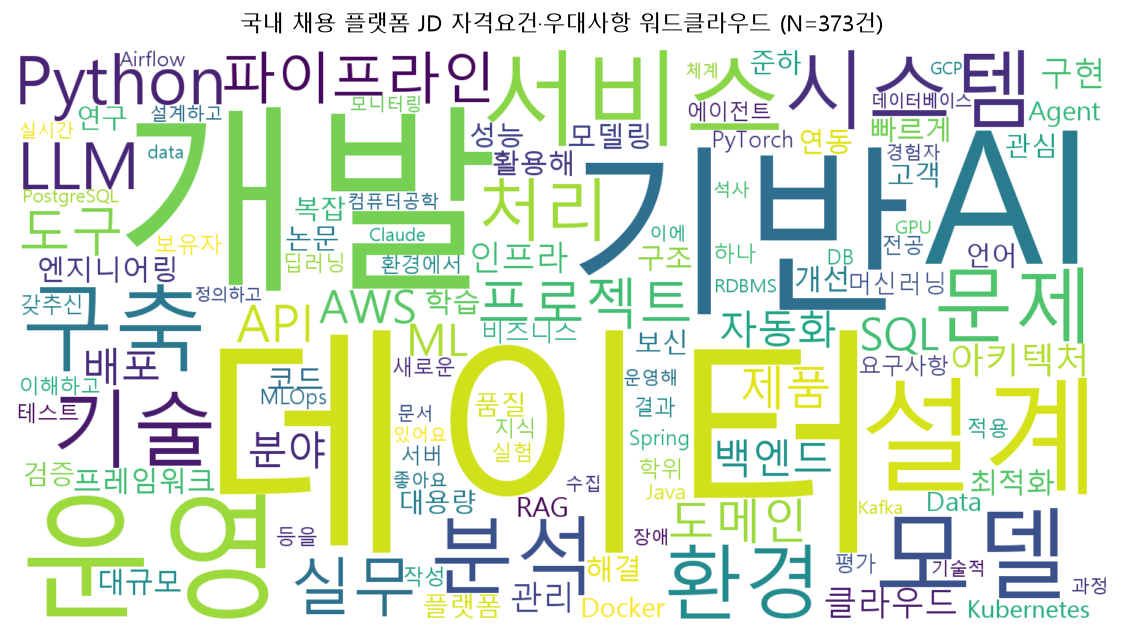
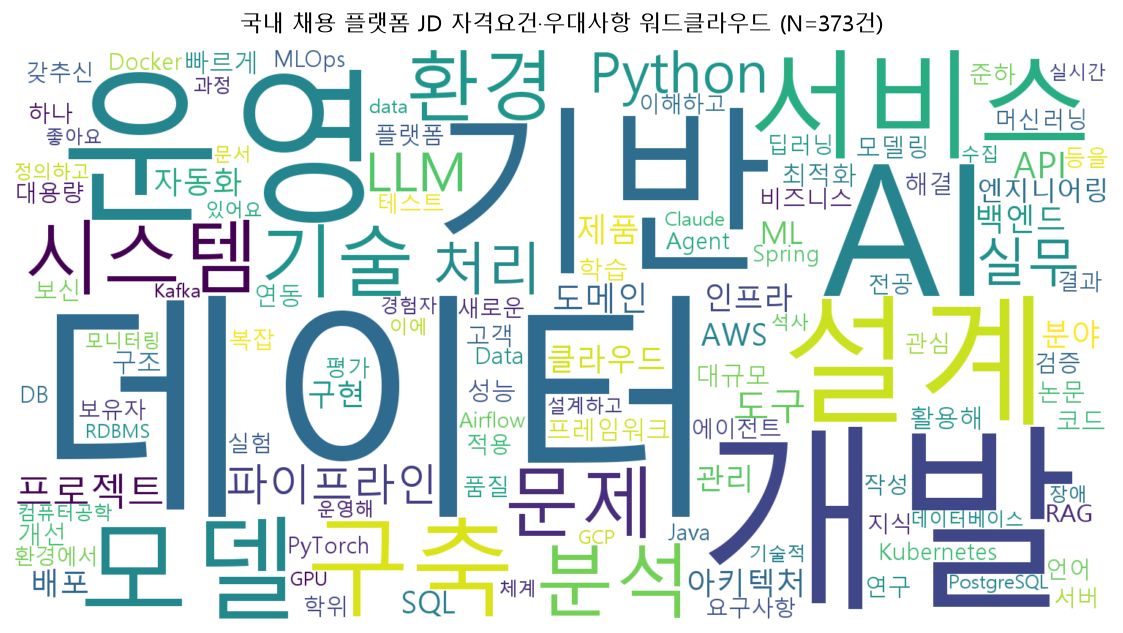
국내 직군별 공고 수 추가 — 직군 그래프가 해외 기준이던 공백을 메움
기존 국내 JD 373건은 AI/데이터·서버/백엔드 두 태그만 받은 것이었습니다.
프론트엔드·앱·게임이 없던 것은 데이터 부재가 아니라 수집 범위의 문제였고,
플랫폼 직군 태그 372개 중 개발 직군 20개를 다시 받았습니다.

결과 (현재 게시분, 고유 공고 2,529건)
  ML/AI 642 / 백엔드 606 / 데이터 508 / 인프라 403 / 프론트엔드 376
  앱(모바일) 114 / 게임 클라이언트 16 / 게임 서버 6

해외와 대조 (백엔드 대비 비, 단위가 달라 절대값은 비교하지 않음)
  프론트엔드  국내 0.62x  해외 0.50x  — 방향 일치
  앱          국내 0.19x  해외 0.28x
  인프라      국내 0.67x  해외 0.31x  — 해외에서 인프라가 크게 빠진 것과 대비
  ML/AI       국내 1.06x  해외 0.48x  — 국내는 ML/AI가 백엔드를 넘어섬

공고 수를 페이지 표기가 아니라 API 열거로 센 이유
  목록 페이지에 직군별 공고 수가 박혀 있어 요청 한 번이면 끝나지만,
  API를 끝까지 넘겨 세어보니 값이 달랐고 어긋나는 정도가 직군마다 달랐습니다.
    머신러닝 129% / DevOps 93% / 프론트엔드 71% / 서버 67% / 웹 21% / 게임클라 18%
  18~129%로 흩어져 보정이 불가능하고, 그대로 쓰면 게임 직군만 5배 부풀려 읽게 됩니다.
  전부 API로 직접 셌고, 페이지 표기는 참고 열로만 남겼습니다.

중복 태그 처리
  한 공고에 직군 태그가 여러 개 붙습니다. 묶음은 공고 id로 중복 제거했습니다
  (앱 단순합 154 → 114, 게임 클라이언트 21 → 16). 직군별 수는 더하면 안 됩니다.

한계
  국내도 단면입니다. 과거 공고를 받을 수 없어 "프론트엔드가 줄었다"는 여전히
  확인 불가입니다. 게임 클라이언트 16건은 이 플랫폼의 게임업계 커버리지 문제일
  수 있어 국내 게임 시장 크기로 읽으면 안 됩니다.

수집 스크립트는 domestic_jobs.json 과 같은 이유로 저장소에 포함하지 않았습니다.

diff --git a/src/analyze_role_demand.py b/src/analyze_role_demand.py
@@ -251,6 +251,56 @@ def game_client_server() -> None:
     print("  ➔ '게임 클라이언트 수요 감소'는 현재 수집 가능한 소스로 확인할 수 없습니다.")
 
 
+def domestic_roles(counts: pd.DataFrame, roles: list) -> None:
+    """국내 직군별 공고 수와 해외 구성을 나란히 놓는다.
+
+    두 값은 **측정 단위가 다르다.** 국내는 플랫폼 직군 태그가 붙은 공고 수(전수),
+    해외는 공고 본문에 그 직군이 언급된 비중(추정)이다. 절대 비중을 맞대면 안 되고,
+    같은 기준 안에서의 **비(比)** 만 비교한다.
+    """
+    path = os.path.join(DATA_DIR, "domestic_role_groups.csv")
+    print("\n" + "=" * 78)
+    print("[6] 국내 직군별 공고 수 — 해외 구성과 대조")
+    print("=" * 78)
+    if not os.path.exists(path):
+        print("  미수집 — python src/collect_domestic_roles.py")
+        return
+
+    dom = pd.read_csv(path, encoding="utf-8-sig").set_index("직군군")
+    total = int(dom["공고수"].sum())
+    print(f"\n  국내 (현재 게시분 단면, 고유 공고 기준)")
+    top = dom["공고수"].max()
+    for name, r in dom.iterrows():
+        bar = "█" * round(r["공고수"] / top * 40)
+        print(f"    {pad(name, 16)}{r['공고수']:>6,}  {bar}")
+    print(f"    {pad('(합계 참고)', 16)}{total:>6,}  ※ 직군 간 공고가 겹쳐 실제 총계는 더 적습니다")
+
+    # 비교는 '백엔드 대비 몇 배' 로만 한다. 단위가 다른 두 수치를 직접 빼지 않기 위해서다.
+    last_year = counts.index[-1]
+    hn = counts.loc[last_year]
+    def ratio(dom_key, hn_key):
+        d = dom["공고수"].get(dom_key)
+        h = hn.get(hn_key)
+        if not d or not h or not dom["공고수"].get("백엔드/서버") or not hn.get("백엔드"):
+            return None, None
+        return d / dom["공고수"]["백엔드/서버"], h / hn["백엔드"]
+
+    print(f"\n  백엔드 대비 비율 — 국내 vs 해외({last_year})")
+    print("  " + pad("직군", 18) + f"{'국내':>10}{'해외':>10}")
+    print("  " + "-" * 38)
+    for dom_key, hn_key in (("프론트엔드", "프론트엔드"), ("앱(모바일)", "모바일"),
+                            ("인프라/SRE", "인프라/SRE"), ("ML/AI", "ML/AI")):
+        d, h = ratio(dom_key, hn_key)
+        if d is None:
+            continue
+        print("  " + pad(dom_key, 18) + f"{d:>9.2f}x{h:>9.2f}x")
+
+    print("\n  · 국내에서도 백엔드가 프론트엔드보다 많습니다. 방향은 해외와 같습니다.")
+    print("  · 다만 두 수치는 **단위가 다릅니다.** 국내는 직군 태그가 붙은 공고 수(전수),")
+    print("    해외는 본문에 그 직군이 언급된 비중(추정)입니다. 비율끼리만 비교했습니다.")
+    print("  · 국내도 **단면입니다.** 과거 공고를 받을 수 없어 '줄었다'는 여전히 못 봅니다.")
+
+
 def main() -> None:
     print("=" * 78)
     print("직군별 수요 변화 — HN 채용글 2020~2026")
@@ -330,6 +380,7 @@ def main() -> None:
     print("\n  ※ 한 공고가 여러 직군에 잡힐 수 있어 합계는 100%를 넘습니다.")
 
     game_client_server()
+    domestic_roles(strict, roles)
 
     print("\n" + "-" * 78)
     print("[해석 주의]")

diff --git a/src/visualize.py b/src/visualize.py
@@ -473,6 +473,42 @@ def fig_role_demand() -> None:
     save(fig, "role_demand_trend.png")
 
 
+# ------------------------------------------------------------------ 9
+def fig_domestic_roles() -> None:
+    path = os.path.join(DATA_DIR, "domestic_role_groups.csv")
+    if not os.path.exists(path):
+        print("  [건너뜀] domestic_role_groups.csv 없음 → collect_domestic_roles.py 먼저 실행")
+        return
+
+    df = pd.read_csv(path, encoding="utf-8-sig").sort_values("공고수")
+    # 해외 그래프(role_demand_trend)와 같은 색을 써서 같은 직군임을 눈으로 잇는다.
+    color_of = {"프론트엔드": "#E4572E", "백엔드/서버": "#2BA84A", "앱(모바일)": "#B0782A",
+                "인프라/SRE": "#8E6BBF", "ML/AI": "#4C6FFF", "데이터": "#3AA6A0",
+                "게임 클라이언트": "#C2456B", "게임 서버": "#8A6D3B"}
+    colors = [color_of.get(n, "#999999") for n in df["직군군"]]
+
+    fig, ax = plt.subplots(figsize=(9.5, 4.8))
+    bars = ax.barh(df["직군군"], df["공고수"], color=colors, height=0.62)
+    for bar, v in zip(bars, df["공고수"]):
+        ax.text(v + df["공고수"].max() * 0.012, bar.get_y() + bar.get_height() / 2,
+                f"{v:,}", va="center", fontsize=9, color="#444")
+
+    ax.set_xlabel("현재 게시 중인 공고 수 (직군 태그 기준, 공고 중복 제거)")
+    ax.set_title("국내 개발 직군별 채용 공고 — 현재 게시분 단면", fontsize=12, pad=12)
+    ax.set_xlim(0, df["공고수"].max() * 1.13)
+    ax.grid(axis="x", color=PALETTE["grid"], linewidth=0.7)
+    ax.set_axisbelow(True)
+    for side in ("top", "right", "left"):
+        ax.spines[side].set_visible(False)
+    ax.tick_params(axis="y", length=0)
+    # 이 그림은 시계열이 아니라는 것을 그림 안에 적어둔다. 떼어서 인용될 때를 대비한다.
+    fig.text(0.01, -0.02,
+             "※ 과거 공고를 받을 수 없어 추이가 아닌 단면입니다. "
+             "해외 시계열(role_demand_trend)과 측정 단위가 다릅니다.",
+             fontsize=8, color="#777")
+    save(fig, "domestic_role_counts.png")
+
+
 def main() -> None:
     setup_font()
     print("시각화 생성 시작\n")
@@ -486,6 +522,7 @@ def main() -> None:
     fig_global_trend()
     fig_entry_comparison()
     fig_role_demand()
+    fig_domestic_roles()
     print(f"\n[완료] docs/figures/ 에 저장")
 
 

diff --git a/docs/02-domestic-analysis.md b/docs/02-domestic-analysis.md
@@ -175,7 +175,69 @@ NCS 정보통신(`R600020`) × 정규직(`R1010`)으로 좁혔습니다.
 
 ---
 
-## 6. 종합
+## 6. 직군별 공고 수 — 국내에도 있었다
+
+[03번 6장](03-global-trend.md)의 직군별 그래프가 해외 기준이었던 이유는 데이터가 없어서가
+아니라 **수집 범위를 두 태그로 잡았기 때문**이었습니다. 채용 플랫폼의 직군 태그는 372개이고,
+그중 개발 직군 20개를 다시 받았습니다.
+
+![국내 직군별 공고](figures/domestic_role_counts.png)
+
+| 직군 | 공고 수 |
+| :--- | ---: |
+| ML/AI | **642** |
+| 백엔드/서버 | 606 |
+| 데이터 | 508 |
+| 인프라/SRE | 403 |
+| 프론트엔드 | 376 |
+| 앱(모바일) | 114 |
+| 게임 클라이언트 | **16** |
+| 게임 서버 | 6 |
+
+고유 공고 2,529건. 한 공고에 직군 태그가 여러 개 붙어 **직군별 수를 더하면 안 됩니다**
+(앱 단순합 154 → 중복 제거 114, 게임 클라이언트 21 → 16).
+
+### 해외와 같은 방향, 다른 정도
+
+두 수치는 **단위가 다릅니다.** 국내는 직군 태그가 붙은 공고 수(전수), 해외는 공고 본문에
+그 직군이 언급된 비중(추정)입니다. 그래서 절대값 대신 **백엔드 대비 비(比)** 만 비교했습니다.
+
+| 직군 | 국내 | 해외(2026) |
+| :--- | ---: | ---: |
+| 프론트엔드 | 0.62x | 0.50x |
+| 앱(모바일) | 0.19x | 0.28x |
+| 인프라/SRE | 0.67x | 0.31x |
+| ML/AI | 1.06x | 0.48x |
+
+* **국내에서도 백엔드가 프론트엔드보다 많습니다.** 방향은 해외와 같습니다.
+* **국내는 ML/AI가 백엔드를 넘어섰습니다**(1.06x). 해외는 아직 절반(0.48x)입니다.
+* 인프라는 국내가 해외의 두 배 비중입니다. 해외에서 인프라가 크게 빠진 것과 대비됩니다.
+
+### 공고 수 표기를 믿지 않은 이유
+
+목록 페이지에는 직군마다 공고 수가 박혀 있어 요청 한 번이면 끝납니다. 그런데 목록 API를
+끝까지 넘겨 직접 세어보니 값이 달랐고, **어긋나는 정도가 직군마다 달랐습니다.**
+
+| 직군 | 페이지 표기 | API 실제 | 비율 |
+| :--- | ---: | ---: | ---: |
+| 머신러닝 엔지니어 | 498 | 642 | 129% |
+| DevOps | 433 | 403 | 93% |
+| 프론트엔드 | 529 | 376 | 71% |
+| 서버 | 911 | 606 | 67% |
+| 웹 개발자 | 721 | 152 | 21% |
+| 게임 클라이언트 | 33 | 6 | 18% |
+
+비율이 18~129%로 흩어집니다. 일정했다면 보정이라도 하겠지만, 이대로 페이지 숫자를 쓰면
+게임 직군만 5배 부풀려 읽게 됩니다. 그래서 **전부 API로 직접 셌습니다.**
+
+> ⚠ **국내도 단면입니다.** 과거 공고를 받을 수 없어 "프론트엔드가 줄었다"는
+> 여전히 확인할 수 없습니다. 확인된 것은 **지금 시점의 구성**뿐입니다.
+> 게임 클라이언트 16건은 이 플랫폼의 게임업계 커버리지가 낮은 탓일 수도 있어
+> 국내 게임 시장의 크기로 읽으면 안 됩니다.
+
+---
+
+## 7. 종합
 
 | 층위 | 데이터 | 방향 |
 | :--- | :--- | :--- |
@@ -198,11 +260,11 @@ NCS 정보통신(`R600020`) × 정규직(`R1010`)으로 좁혔습니다.
 * **표본 편향**: AI/데이터 직군을 의도적으로 많이 수집했습니다(283 vs 90). 시장 전체 비율이 아닙니다.
 * **기업 표본 한정**: 매칭된 237개사는 **채용 공고를 낸 기업**에 한정되며 산업 전체를 대표하지 않습니다.
 * **구인배율은 산출 불가**로 확정됐습니다. 사유는 [01](01-data-source-access.md) 참조.
-* **국내는 직군별(프론트엔드·앱·게임 클라이언트) 분해가 안 됩니다.** [03번 6장](03-global-trend.md)의 직군별 그래프가 해외(HN) 기준인 이유입니다. 소스별 한계는 다음과 같습니다.
+* **국내 직군별 분해는 단면까지만 됩니다.** 6장에서 20개 직군의 현재 공고 수를 받았지만, 과거 공고가 없어 **추이는 여전히 불가**합니다. 소스별 한계는 다음과 같습니다.
 
 | 소스 | 직군 정보 | 왜 안 되나 |
 | :--- | :--- | :--- |
-| 민간 JD 373건 | 2개 카테고리뿐 | 수집 시 `AI/데이터`·`서버/백엔드` 태그만 골랐습니다. 프론트엔드·앱·게임은 **애초에 받지 않았습니다** — 데이터가 없는 게 아니라 범위를 그렇게 잡은 것입니다 |
+| 민간 JD 373건 | 2개 카테고리뿐 | 수집 시 `AI/데이터`·`서버/백엔드` 태그만 골랐습니다 → **[6장](#6-직군별-공고-수--국내에도-있었다)에서 20개 직군으로 다시 받았습니다** |
 | 잡알리오 | NCS 대분류까지 | `정보통신` 하나로 개발·전산운영·정보보안·통신설비가 섞입니다. 세부 분류 필드가 상세 조회에도 없습니다 |
 | EIS 고용행정통계 | 직종 대분류 10개 | 개발 직군을 분리할 수 없습니다 ([01](01-data-source-access.md)) |
 | 워크넷 | 직종 소분류 있음 | 기업회원 전용이라 접근 불가 |

diff --git a/README.md b/README.md
@@ -22,6 +22,7 @@
 | **신입 진입문은 한국이 오히려 넓다** | 국내 12.9% vs 해외 7.9% | 교차 분석 |
 | 신입 문 축소는 **한국 전반의 현상이 아니다** | 공공 채용 신입 가능 **88.6%**, 6년간 유지 (직군은 다름) | 잡알리오 |
 | 하락은 **직군별로 고르지 않다** | 프론트엔드 -36% vs 백엔드 -13% (시장 대비) | Hacker News |
+| 국내도 **백엔드 > 프론트엔드** | 백엔드 606건 vs 프론트엔드 376건 (현재 게시분) | 국내 채용 플랫폼 |
 
 ➔ 문제는 "채용 한파"가 아니라 **"진입문 축소 + 요구 역량 이동"** 이었습니다.
 
@@ -54,7 +55,7 @@
 | 잡알리오 공공기관 채용 | API 키 (무료, 자동승인) | ✅ 공고 86,635건 / 80개월 |
 | Hacker News (Algolia) | **불필요** | ✅ 채용글 39,362건 / 80개월 |
 | Greenhouse 채용 보드 | **불필요** | ✅ 31개사 개발 JD 2,860건 |
-| 국내 채용 플랫폼 공개 API | 불필요 | ✅ JD 373건 |
+| 국내 채용 플랫폼 공개 API | 불필요 | ✅ JD 373건 + 직군별 공고 2,529건 |
 | 워크넷(고용24) | 기업회원 전용 | ❌ 개인 접근 불가 |
 | EIS 고용행정통계 | 불필요하나 IP 일일 쿼터 | ❌ 시계열 수집 불가 |
 
@@ -130,6 +131,9 @@ DATA_GO_KR_SERVICE_KEY=여기에키
 | 8 | `python src/compare_entry_level.py` | — | 콘솔 리포트 (공공/민간/해외 신입 비교) |
 | 9 | `python src/analyze_role_demand.py` | — | 콘솔 리포트 (직군별 수요 변화) |
 | 10 | `python src/visualize.py` | — | `docs/figures/*.png` |
+
+국내 직군별 공고 수(`data/domestic_role_*.csv`)는 별도 수집분이며, 수집 스크립트는
+`domestic_jobs.json` 과 같은 이유로 저장소에 포함되어 있지 않습니다.
 
 ```bash
 python src/check_public_api.py --source kosis
